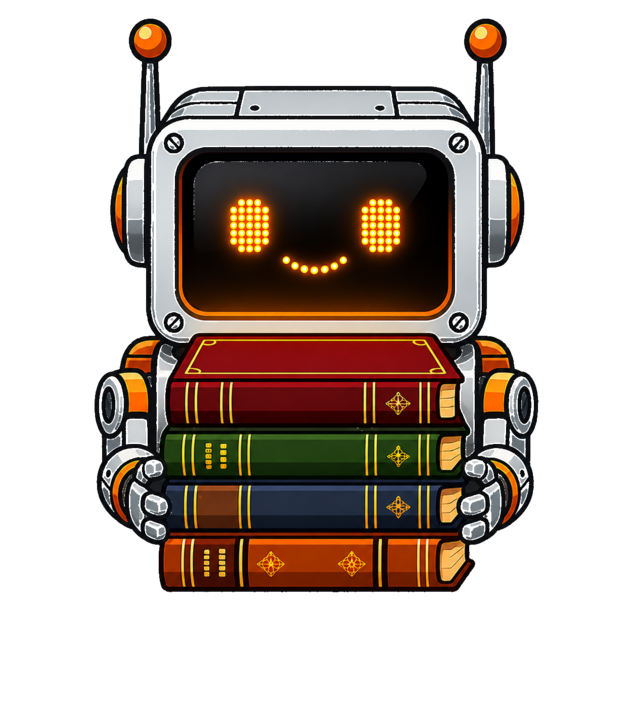
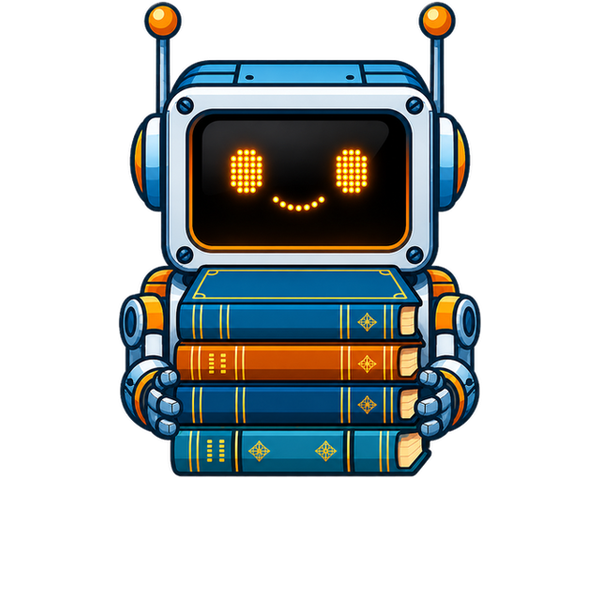
Update README robot image

diff --git a/README.md b/README.md
@@ -1,4 +1,4 @@
-# GraalVM Reachability Metadata Repository <img src="docs/assets/readme/title-robot-facing-user.png" height="63" align="middle">
+# GraalVM Reachability Metadata Repository <img src="docs/assets/readme/title-robot-facing-user.png" height="58" align="middle" style="margin-bottom: 22px; pointer-events: none;">
 
 <p><a href="COVERAGE.md"><picture><source media="(prefers-color-scheme: dark)" srcset="https://img.shields.io/badge/dynamic/json.svg?label=supported%20libraries&query=%24.badges.librariesSupported&url=https%3A%2F%2Fraw.githubusercontent.com%2Foracle%2Fgraalvm-reachability-metadata%2Fstats%2Fcoverage%2Flatest%2Fbadges.json&style=flat&color=38BDF8&labelColor=1F2937"><img alt="Supported libraries" src="https://img.shields.io/badge/dynamic/json.svg?label=supported%20libraries&query=%24.badges.librariesSupported&url=https%3A%2F%2Fraw.githubusercontent.com%2Foracle%2Fgraalvm-reachability-metadata%2Fstats%2Fcoverage%2Flatest%2Fbadges.json&style=flat&color=0A7EC2&labelColor=E5E7EB"></picture></a>&nbsp;&nbsp;<a href="COVERAGE.md"><picture><source media="(prefers-color-scheme: dark)" srcset="https://img.shields.io/badge/dynamic/json.svg?label=tested%20library%20versions&query=%24.badges.testedLibraryVersions&url=https%3A%2F%2Fraw.githubusercontent.com%2Foracle%2Fgraalvm-reachability-metadata%2Fstats%2Fcoverage%2Flatest%2Fbadges.json&style=flat&color=F59E0B&labelColor=1F2937"><img alt="Tested library versions" src="https://img.shields.io/badge/dynamic/json.svg?label=tested%20library%20versions&query=%24.badges.testedLibraryVersions&url=https%3A%2F%2Fraw.githubusercontent.com%2Foracle%2Fgraalvm-reachability-metadata%2Fstats%2Fcoverage%2Flatest%2Fbadges.json&style=flat&color=BF8700&labelColor=E5E7EB"></picture></a>&nbsp;&nbsp;<a href="COVERAGE.md"><picture><source media="(prefers-color-scheme: dark)" srcset="https://img.shields.io/badge/dynamic/json.svg?label=dynamic%20access%20coverage&query=%24.badges.dynamicAccessCoverage&url=https%3A%2F%2Fraw.githubusercontent.com%2Foracle%2Fgraalvm-reachability-metadata%2Fstats%2Fcoverage%2Flatest%2Fbadges.json&style=flat&color=34D399&labelColor=1F2937"><img alt="Dynamic access coverage" src="https://img.shields.io/badge/dynamic/json.svg?label=dynamic%20access%20coverage&query=%24.badges.dynamicAccessCoverage&url=https%3A%2F%2Fraw.githubusercontent.com%2Foracle%2Fgraalvm-reachability-metadata%2Fstats%2Fcoverage%2Flatest%2Fbadges.json&style=flat&color=1F9D55&labelColor=E5E7EB"></picture></a>&nbsp;&nbsp;<a href="COVERAGE.md"><picture><source media="(prefers-color-scheme: dark)" srcset="https://img.shields.io/badge/dynamic/json.svg?label=tested%20LoC&query=%24.badges.testedLinesOfCode&url=https%3A%2F%2Fraw.githubusercontent.com%2Foracle%2Fgraalvm-reachability-metadata%2Fstats%2Fcoverage%2Flatest%2Fbadges.json&style=flat&color=FB923C&labelColor=1F2937"><img alt="Tested LoC" src="https://img.shields.io/badge/dynamic/json.svg?label=tested%20LoC&query=%24.badges.testedLinesOfCode&url=https%3A%2F%2Fraw.githubusercontent.com%2Foracle%2Fgraalvm-reachability-metadata%2Fstats%2Fcoverage%2Flatest%2Fbadges.json&style=flat&color=C2410C&labelColor=E5E7EB"></picture></a></p>
 